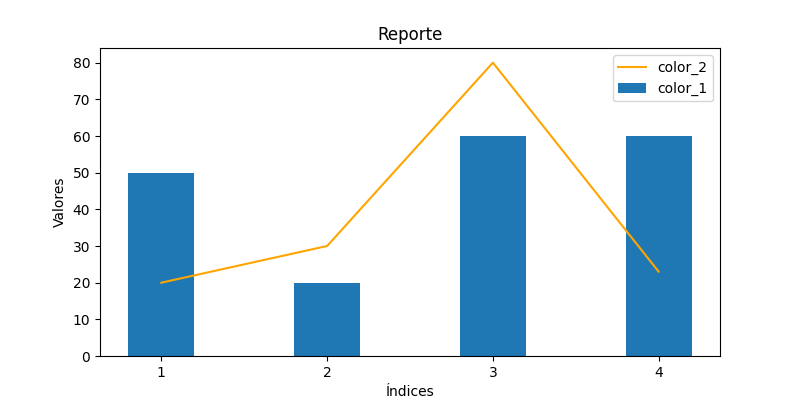
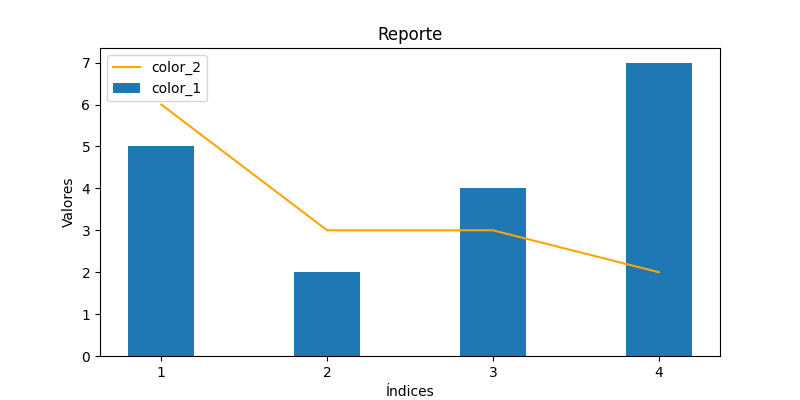
Ya se controla si no existe una base de datos

diff --git a/templates/index.html b/templates/index.html
@@ -4,6 +4,7 @@
     <title>Mi tabla</title>
 </head>
 <body>
+{% if datos %}
 <table>
     <tr>
         <th>Color 1</th>
@@ -29,6 +30,9 @@
     </tr>
     {% endfor %}
 </table>
+{% else %}
+<h2>Aún no hay datos en la tabla. Agrega algunos haciendo click en el botón "Insertar".</h2>
+{% endif %}
 <br><br>
 <h3>Insertar nuevos datos </h3>
 <table>
@@ -45,6 +49,8 @@
     </tr>
 
 </table>
-<img src="/mi_grafico">
+{% if datos %}
+    <img src="/mi_grafico">
+{% endif %}
 </body>
 </html>

diff --git a/main.py b/main.py
@@ -164,27 +164,36 @@ def graficar(columna_1, columna_2, nombre_columna_1, nombre_columna_2):
 
 @app.route('/')
 def index():
+    results = [(), (), ()]
     # Conecta a la base de datos
     conn = sqlite3.connect("mi_base_de_datos.db")
 
     # Crea un cursor para ejecutar la consulta
     cursor = conn.cursor()
 
-    # Ejecuta la consulta y obtiene los resultados
-    cursor.execute("SELECT * FROM tabla_colores")
-    results = cursor.fetchall()
+    # Verifica si la tabla existe
+    #if 'tabla_colores' in cursor.execute("SELECT name FROM sqlite_master WHERE type='table';").fetchall():
+    try:
+        cursor.execute("SELECT * FROM tabla_colores")
+        results = cursor.fetchall()
+    except sqlite3.OperationalError:
+        cursor.execute(
+            "CREATE TABLE tabla_colores (id INTEGER PRIMARY KEY AUTOINCREMENT, color_1 INTEGER, color_2 INTEGER)")
+        results = []
+        # Ejecuta la consulta y obtiene los resultados
+    if cursor.execute("SELECT * FROM tabla_colores").fetchone():
 
-    # Cierra el cursor y la conexión
+        # Crea una lista de tuplas con los resultados
+        # Obtiene el nombre de la columna
+        nombre_columna_1 = cursor.description[1][0]
+        nombre_columna_2 = cursor.description[2][0]
+        columna_1 = [(row[1]) for row in results]
+        columna_2 = [(row[2]) for row in results]
+        graficar(columna_1, columna_2, nombre_columna_1, nombre_columna_2)
+
+        # Cierra el cursor y la conexión
     cursor.close()
     conn.close()
-    # Crea una lista de tuplas con los resultados
-    # Obtiene el nombre de la columna
-    nombre_columna_1 = cursor.description[1][0]
-    nombre_columna_2 = cursor.description[2][0]
-    columna_1 = [(row[1]) for row in results]
-    columna_2 = [(row[2]) for row in results]
-    graficar(columna_1, columna_2, nombre_columna_1, nombre_columna_2)
-
     return render_template("index.html", datos=results)
 
 @app.route('/mi_grafico')
